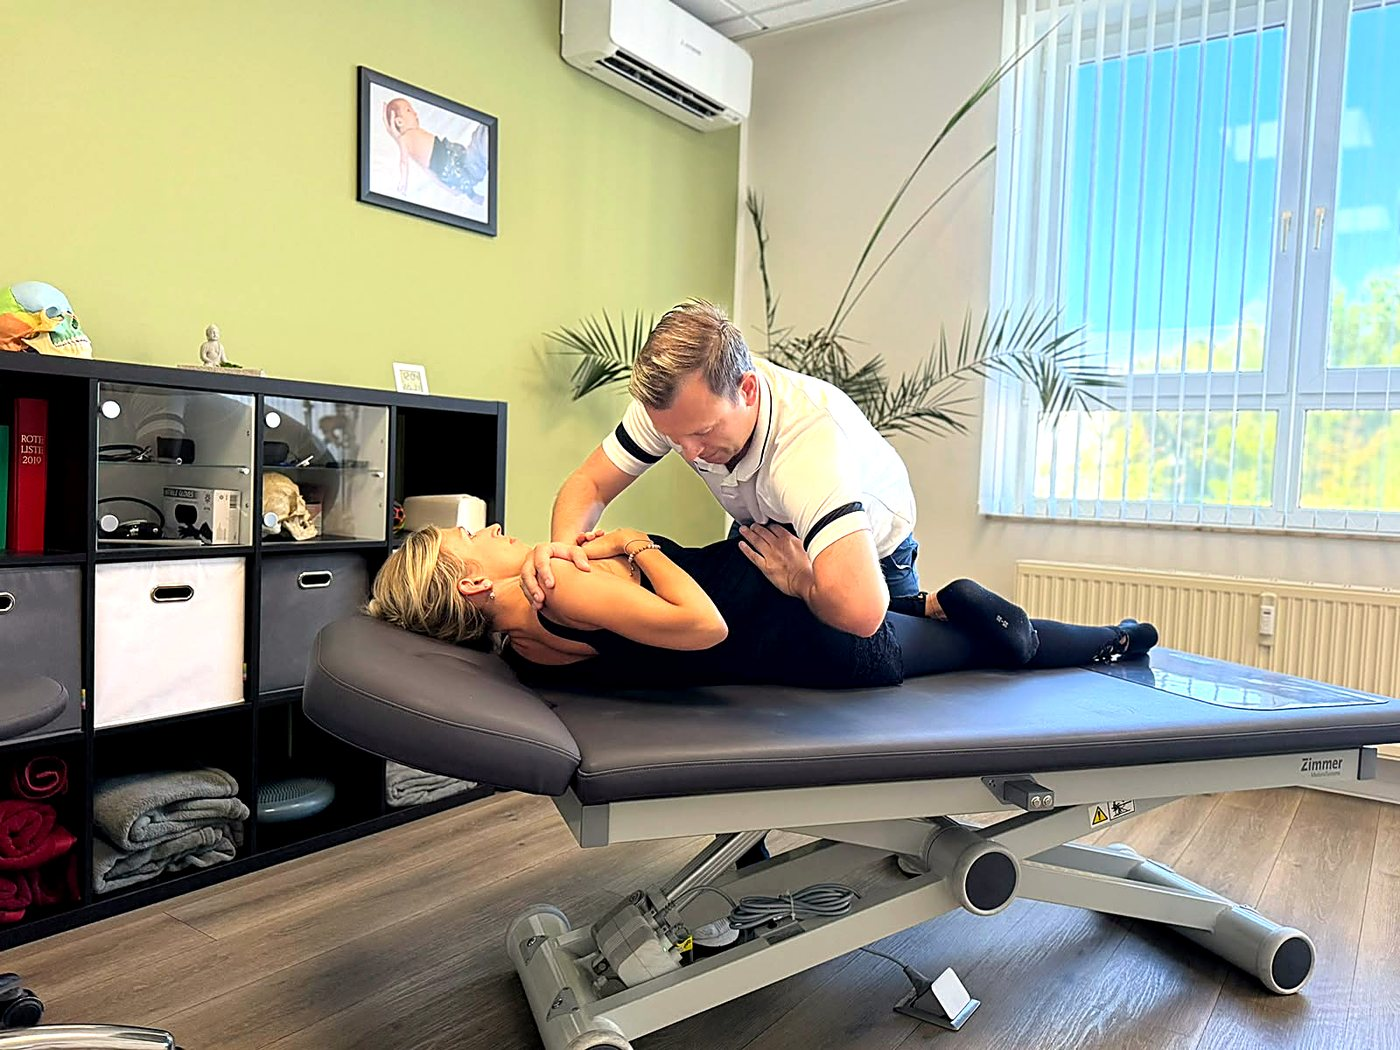
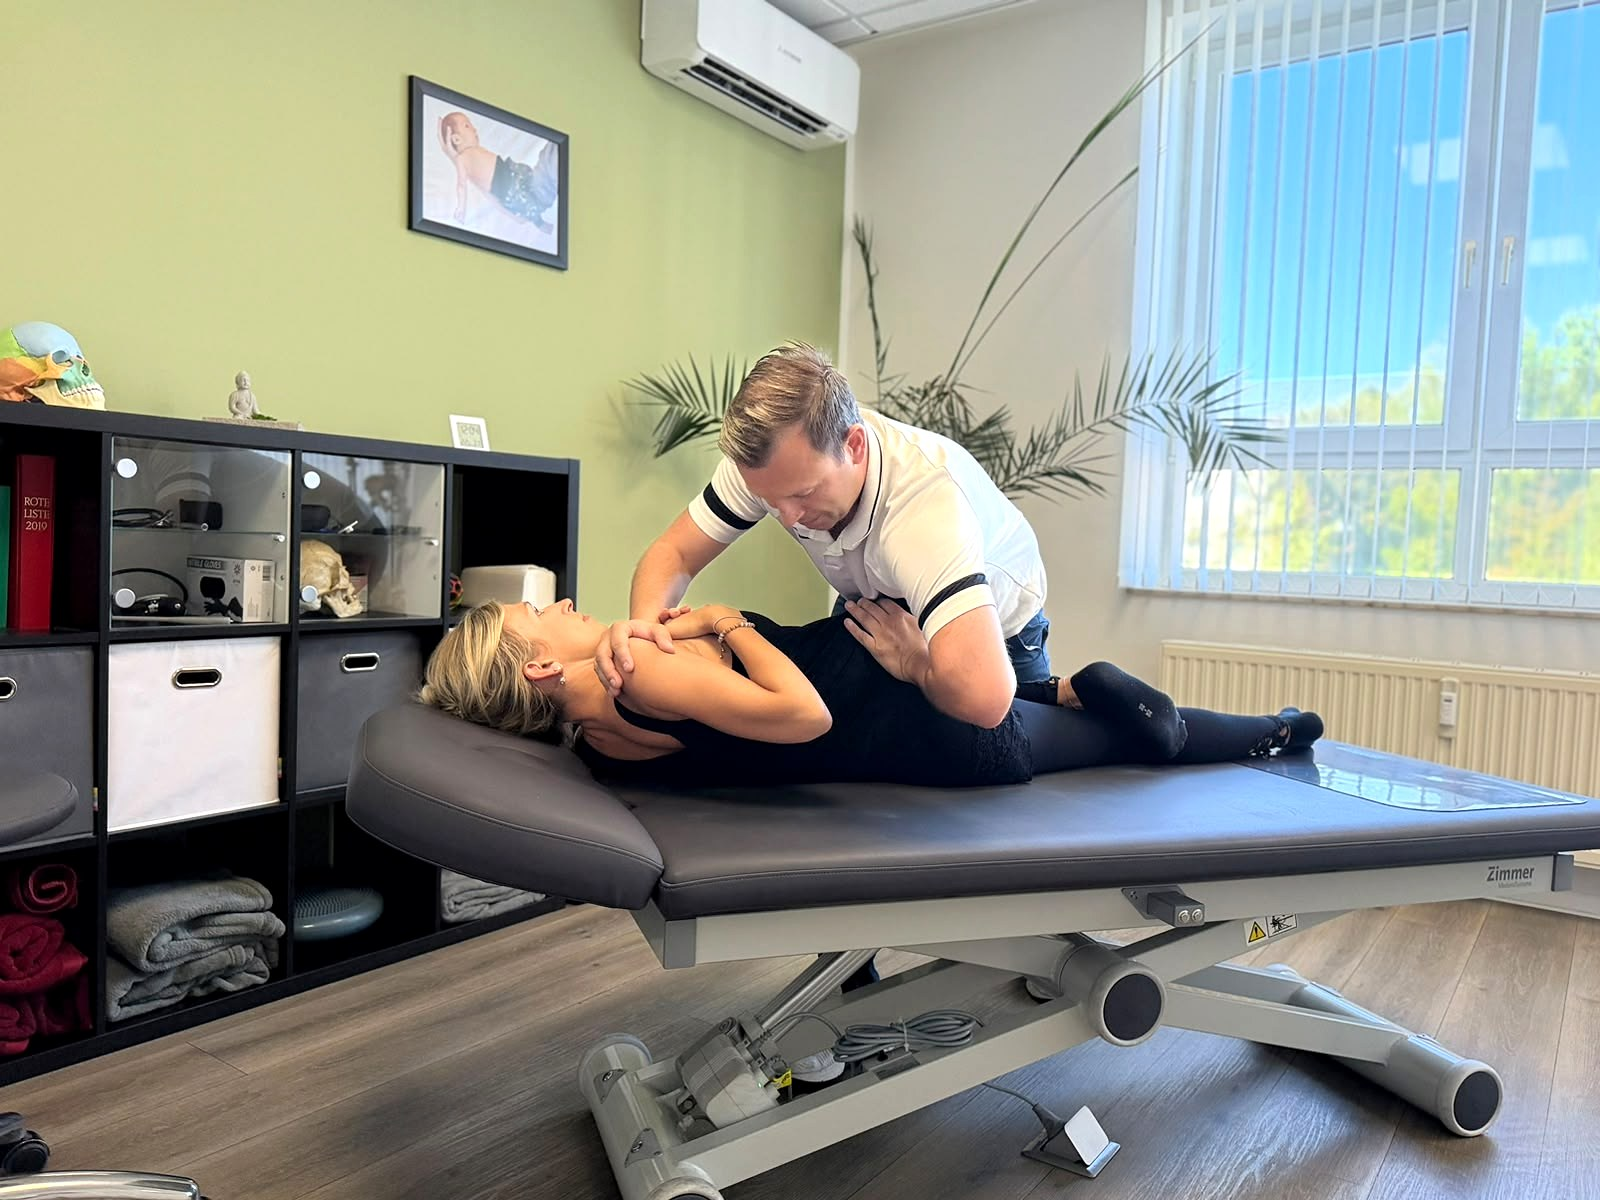
osteopathie-limbach: Bilder natuerlicher + Aufloesung fuer Retina
Ursachen des "interpolierten" Eindrucks (gemessen, nicht geraten):
1. Meine Aufbereitung war zu stark: +12% Saettigung und Warmverschiebung
   liessen Haut ins Orange ziehen (Rot-Blau-Abstand 16 -> jetzt 8),
   UnsharpMask 70%/radius2 erzeugte Halos auf bereits JPEG-komprimierten
   WhatsApp-Quellen. Jetzt: Autocontrast 0.5, Kontrast 1.02, keine
   Farbverschiebung, Nachschaerfung nur 45%/radius0.8 als Resize-Ausgleich.
2. Zwei Flaechen waren unterversorgt: das breite Band deckte auf 2x-Displays
   nur 56%, der Hero 64% - der Browser hat hochskaliert. Motive nach
   Platzbedarf neu verteilt (beide 2048er Quellen in die grossen Flaechen)
   und srcset/sizes ergaenzt: 1400w fuer 1x, 2048w fuer Retina.

Ein Upscale haette NICHT geholfen - algorithmisch entsteht keine neue
Information. Echte Verbesserung braeuchte die Kamera-Originale; WhatsApp
deckelt auf 2048px und komprimiert erneut.

diff --git a/osteopathie-limbach/chiropraktik.html b/osteopathie-limbach/chiropraktik.html
@@ -254,7 +254,7 @@ mark.todo{background:#fff3bf;color:#5f4b00;padding:1px 6px;border-radius:4px;fon
 <div class="hero-pad">
   <section class="hero">
     <div class="hero-bg">
-      <picture><source srcset="assets/images/chiropraktik-chemnitz-hero.webp" type="image/webp"><img src="assets/images/chiropraktik-chemnitz-hero.jpg" width="1800" height="771" alt="Chiropraktische Behandlung der Halswirbelsäule in der Praxis C. Uhlmann" fetchpriority="high"></picture>
+      <picture><source type="image/webp" sizes="100vw" srcset="assets/images/chiropraktik-chemnitz-hero-1400.webp 1400w, assets/images/chiropraktik-chemnitz-hero.webp 2048w"><img sizes="100vw" srcset="assets/images/chiropraktik-chemnitz-hero-1400.jpg 1400w, assets/images/chiropraktik-chemnitz-hero.jpg 2048w" src="assets/images/chiropraktik-chemnitz-hero.jpg" width="2048" height="877" alt="Christoph Uhlmann behandelt die Halswirbelsäule einer sitzenden Patientin in der Praxis in Limbach-Oberfrohna" fetchpriority="high"></picture>
     </div>
     <div class="hero-scrim" aria-hidden="true"></div>
     <div class="hero-inner">
@@ -294,7 +294,7 @@ mark.todo{background:#fff3bf;color:#5f4b00;padding:1px 6px;border-radius:4px;fon
         </ul>
       </div>
       <div class="lead-media reveal">
-        <picture><source srcset="assets/images/chiropraktik-untersuchung-praxis-uhlmann.webp" type="image/webp"><img src="assets/images/chiropraktik-untersuchung-praxis-uhlmann.jpg" width="1400" height="1050" alt="Christoph Uhlmann prüft Beweglichkeit und Statik einer Patientin auf der Behandlungsliege in Limbach-Oberfrohna" loading="lazy"></picture>
+        <picture><source srcset="assets/images/chiropraktik-untersuchung-praxis-uhlmann.webp" type="image/webp"><img src="assets/images/chiropraktik-untersuchung-praxis-uhlmann.jpg" width="1600" height="1200" alt="Christoph Uhlmann prüft Beweglichkeit und Statik einer Patientin auf der Behandlungsliege in Limbach-Oberfrohna" loading="lazy"></picture>
       </div>
     </div>
   </div>
@@ -305,7 +305,7 @@ mark.todo{background:#fff3bf;color:#5f4b00;padding:1px 6px;border-radius:4px;fon
   <div class="wrap">
     <div class="work-grid">
       <div class="work-media reveal">
-        <picture><source srcset="assets/images/chiropraktik-behandlung-hws-praxis-uhlmann.webp" type="image/webp"><img src="assets/images/chiropraktik-behandlung-hws-praxis-uhlmann.jpg" width="1400" height="1050" alt="Chiropraktische Behandlung der Halswirbelsäule im Behandlungsraum der Praxis C. Uhlmann in Limbach-Oberfrohna" loading="lazy"></picture>
+        <picture><source srcset="assets/images/chiropraktik-mobilisation-bws-praxis-uhlmann.webp" type="image/webp"><img src="assets/images/chiropraktik-mobilisation-bws-praxis-uhlmann.jpg" width="1600" height="1200" alt="Chiropraktische Behandlung der Brustwirbelsäule in Seitenlage im Behandlungsraum der Praxis C. Uhlmann in Limbach-Oberfrohna" loading="lazy"></picture>
       </div>
       <div class="work-txt reveal">
         <span class="pill">Chiropraktik</span>
@@ -395,8 +395,8 @@ mark.todo{background:#fff3bf;color:#5f4b00;padding:1px 6px;border-radius:4px;fon
 <!-- ============ FOTO-BREAK ============ -->
 <div class="fotobreak">
   <figure class="reveal">
-    <picture><source srcset="assets/images/chiropraktik-mobilisation-bws-praxis-uhlmann.webp" type="image/webp"><img src="assets/images/chiropraktik-mobilisation-bws-praxis-uhlmann.jpg" width="1400" height="1050" alt="Mobilisation der Brustwirbelsäule in Seitenlage in der Praxis für Osteopathie und Chiropraktik in Limbach-Oberfrohna" loading="lazy"></picture>
-    <figcaption>Mobilisation der Brustwirbelsäule — ergänzend arbeiten wir mit Weichteiltechniken an der umliegenden Muskulatur.</figcaption>
+    <picture><source type="image/webp" sizes="(max-width:1264px) 100vw, 1240px" srcset="assets/images/chiropraktik-behandlung-hws-praxis-uhlmann-1400.webp 1400w, assets/images/chiropraktik-behandlung-hws-praxis-uhlmann.webp 2048w"><img sizes="(max-width:1264px) 100vw, 1240px" srcset="assets/images/chiropraktik-behandlung-hws-praxis-uhlmann-1400.jpg 1400w, assets/images/chiropraktik-behandlung-hws-praxis-uhlmann.jpg 2048w" src="assets/images/chiropraktik-behandlung-hws-praxis-uhlmann.jpg" width="2048" height="1536" alt="Chiropraktische Behandlung der Halswirbelsäule in Rückenlage in der Praxis für Osteopathie und Chiropraktik in Limbach-Oberfrohna" loading="lazy"></picture>
+    <figcaption>Behandlung der Halswirbelsäule — gezielte, meist kurze Impulse an einzelnen Wirbelgelenken.</figcaption>
   </figure>
 </div>
 
